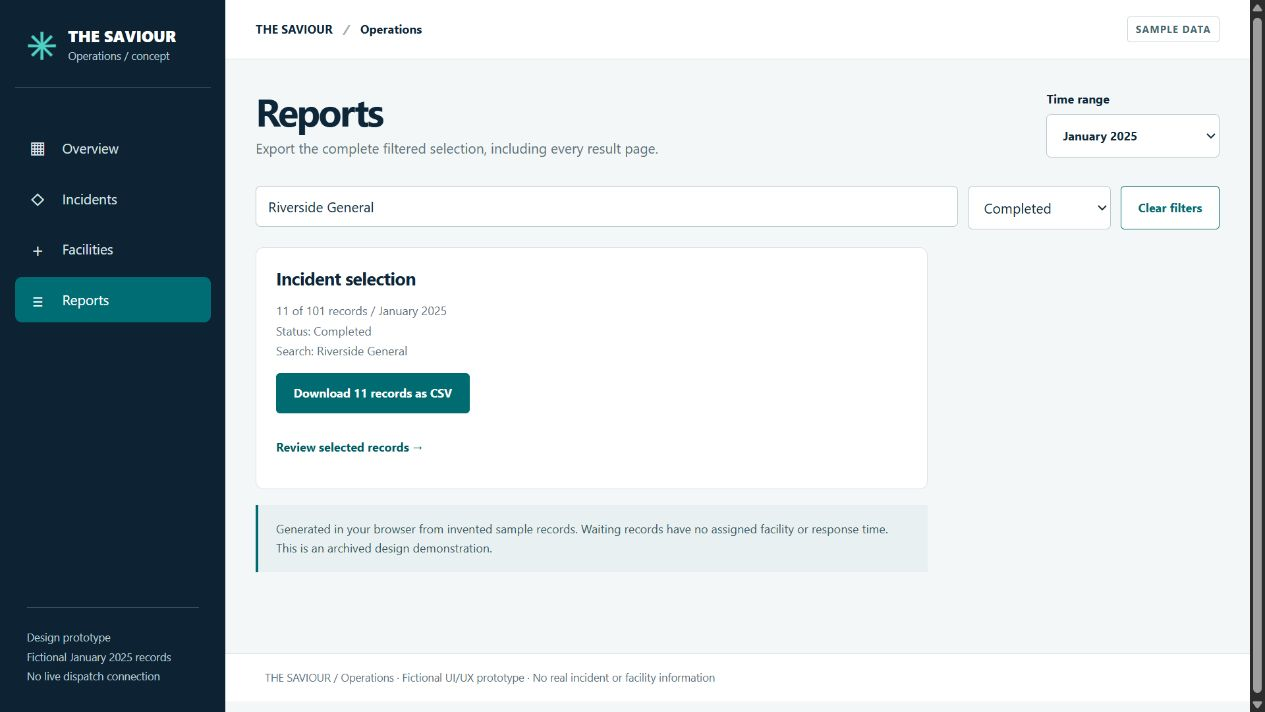
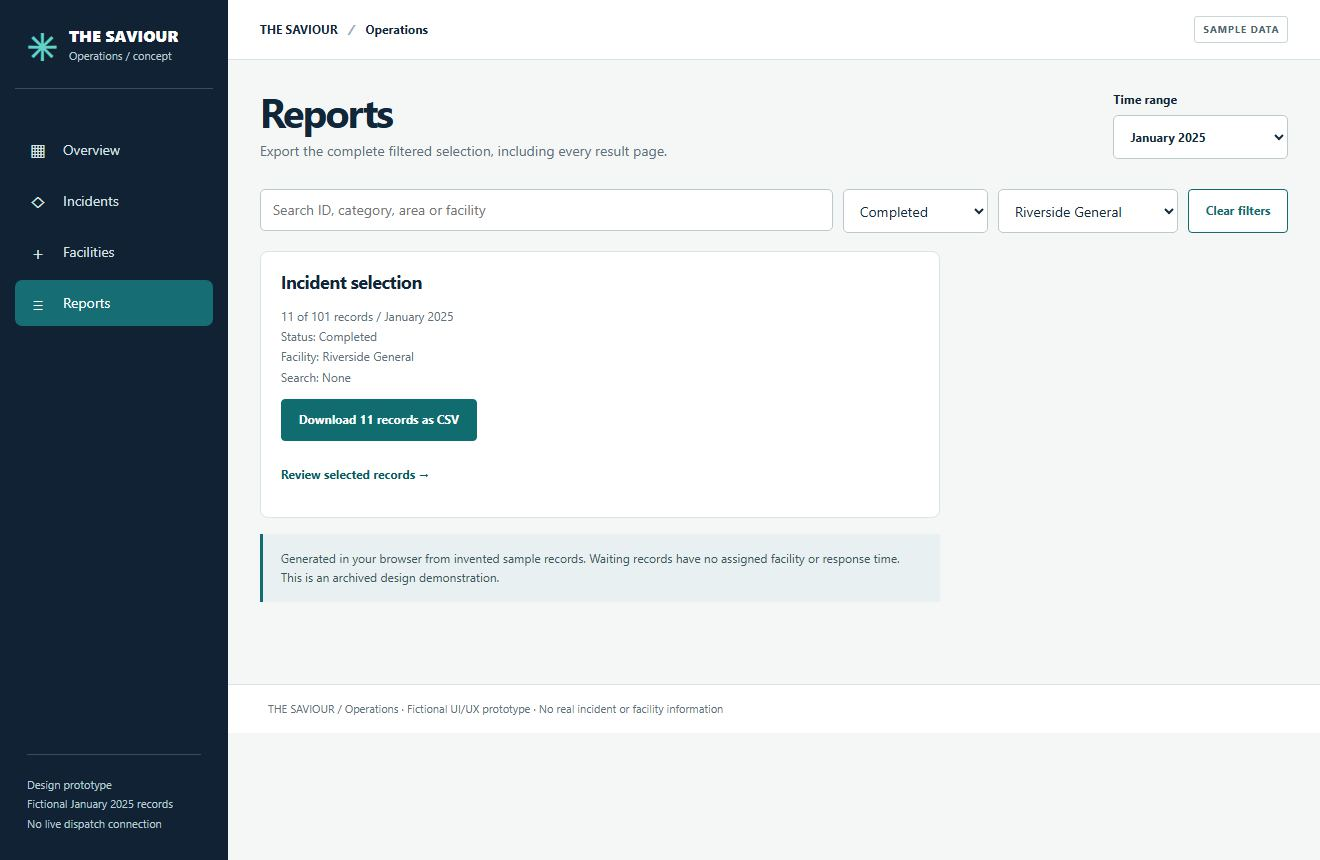
Refresh submission evidence for the revised prototype

diff --git a/task-04-dashboard/EVALUATION.md b/task-04-dashboard/EVALUATION.md
@@ -68,3 +68,16 @@ The brief mentions dashboard design tools but does not restrict submission to a 
 ## Deployment verification
 
 The existing Vercel project was redeployed to production and reported READY. The public dashboard was opened; the month summary and enabled 11-record filtered export were checked. All four deployed web assets returned HTTP 200 and matched the local source byte for byte. See the [deployment hashes](evidence/deployment.json) and [production browser record](evidence/production-browser.json).
+
+## Submission evidence refresh · 20 November 2026
+
+The incident register surfaces status beside the incident ID. The exact facility filter also controls the export. The refreshed view shows 11 completed Riverside General incidents for January.
+
+The screenshots below were recaptured from the revised prototype. Earlier evidence files are historical.
+
+- [03-desktop-register.jpg](evidence/03-desktop-register.jpg)
+- [05-desktop-export.jpg](evidence/05-desktop-export.jpg)
+- [06-desktop-empty.jpg](evidence/06-desktop-empty.jpg)
+- [07-mobile-register.jpg](evidence/07-mobile-register.jpg)
+- [11-small-mobile-register.jpg](evidence/11-small-mobile-register.jpg)
+- [12-tablet-register.jpg](evidence/12-tablet-register.jpg)
